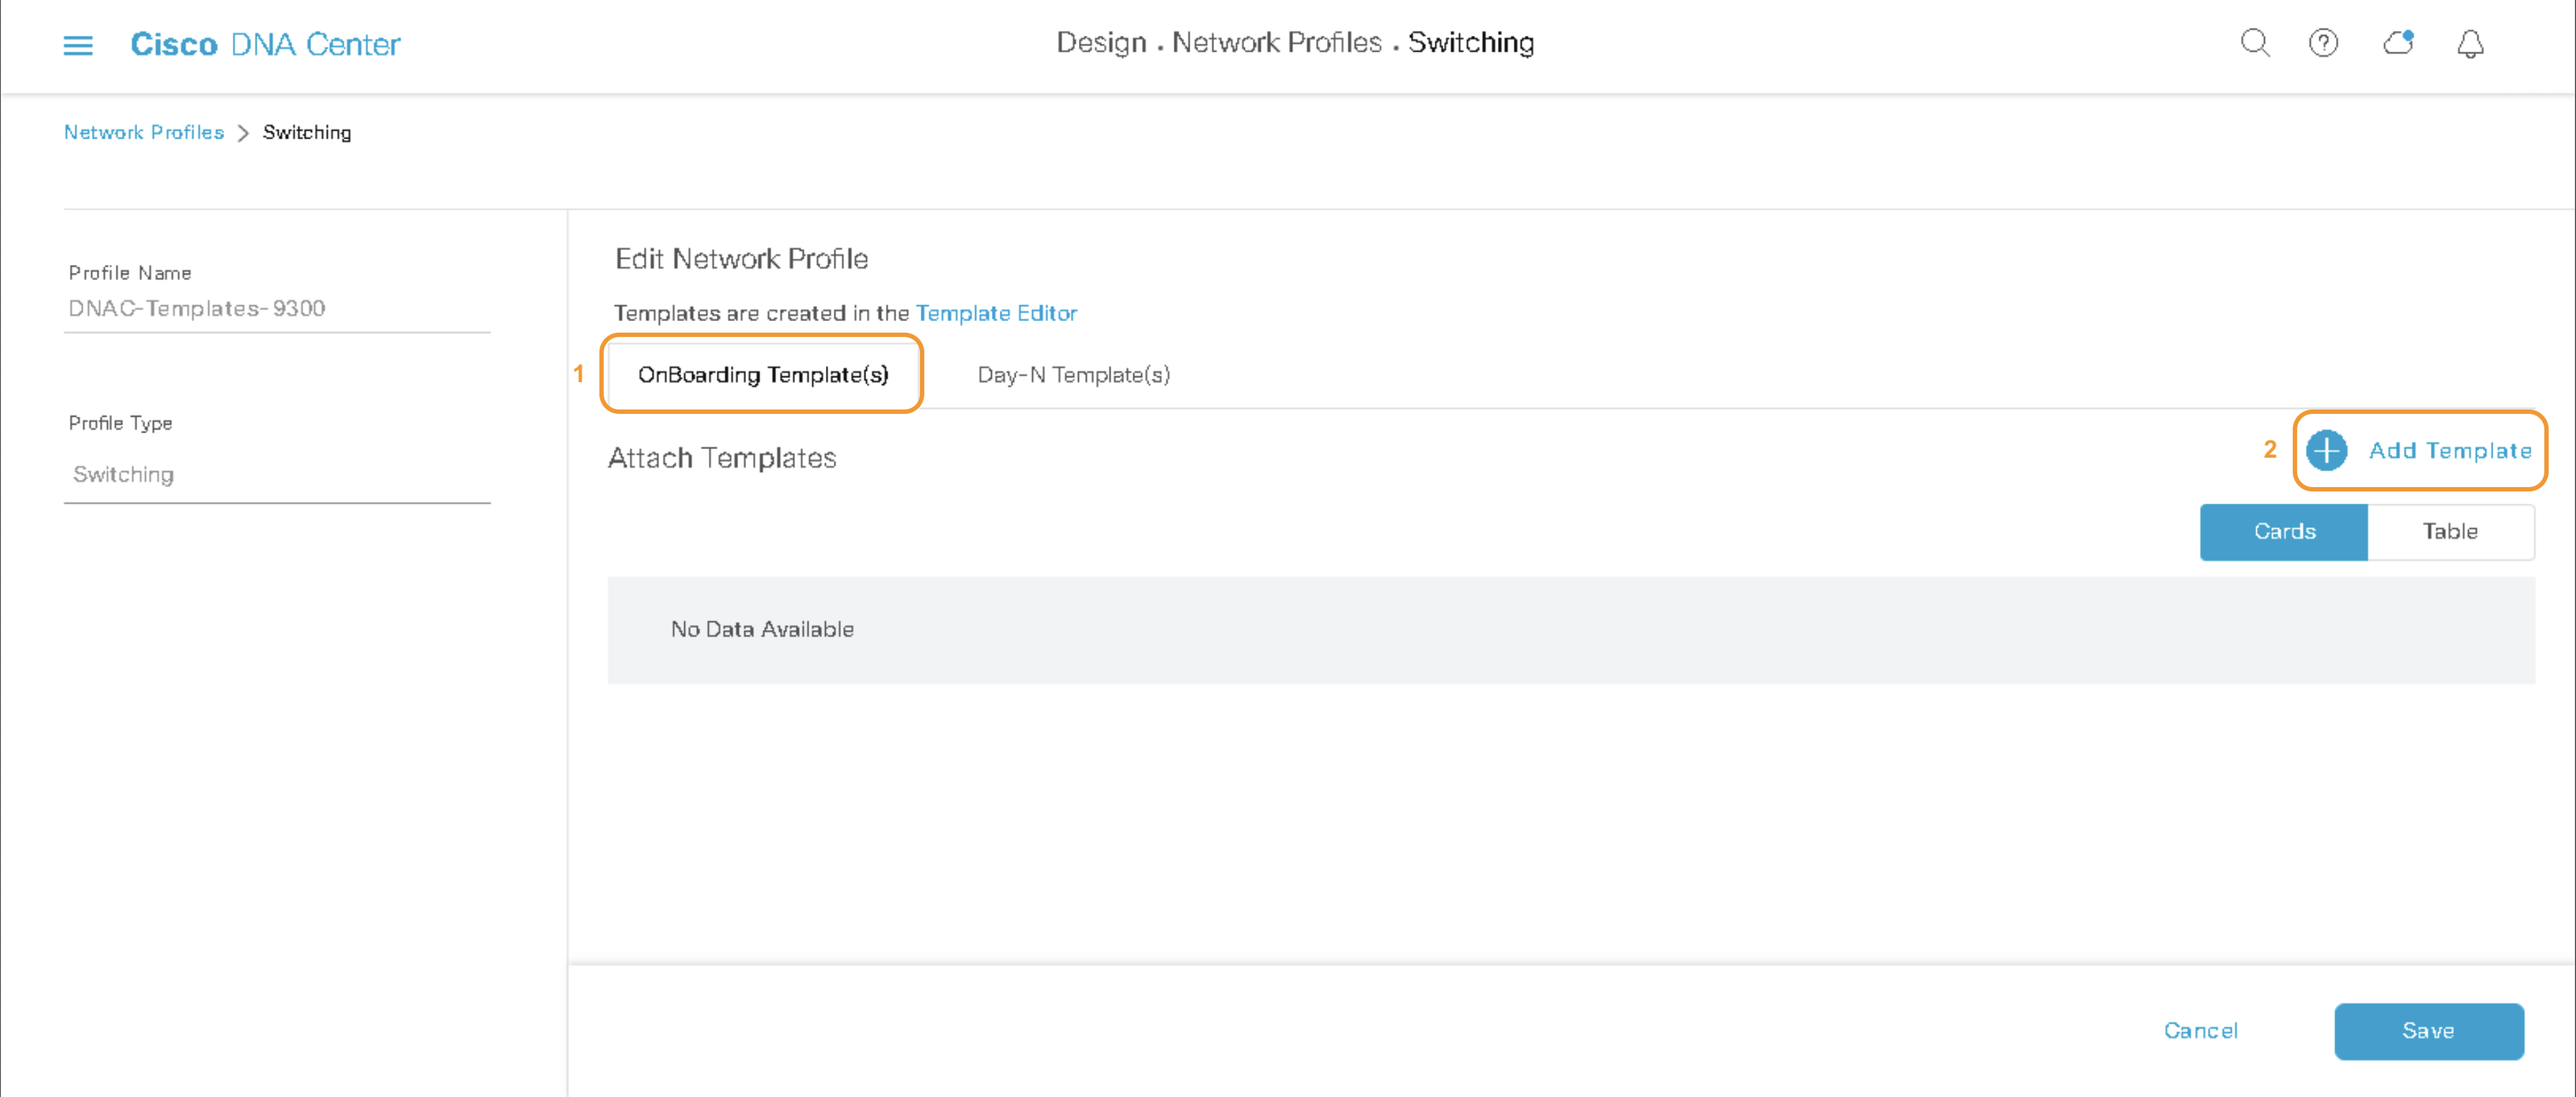
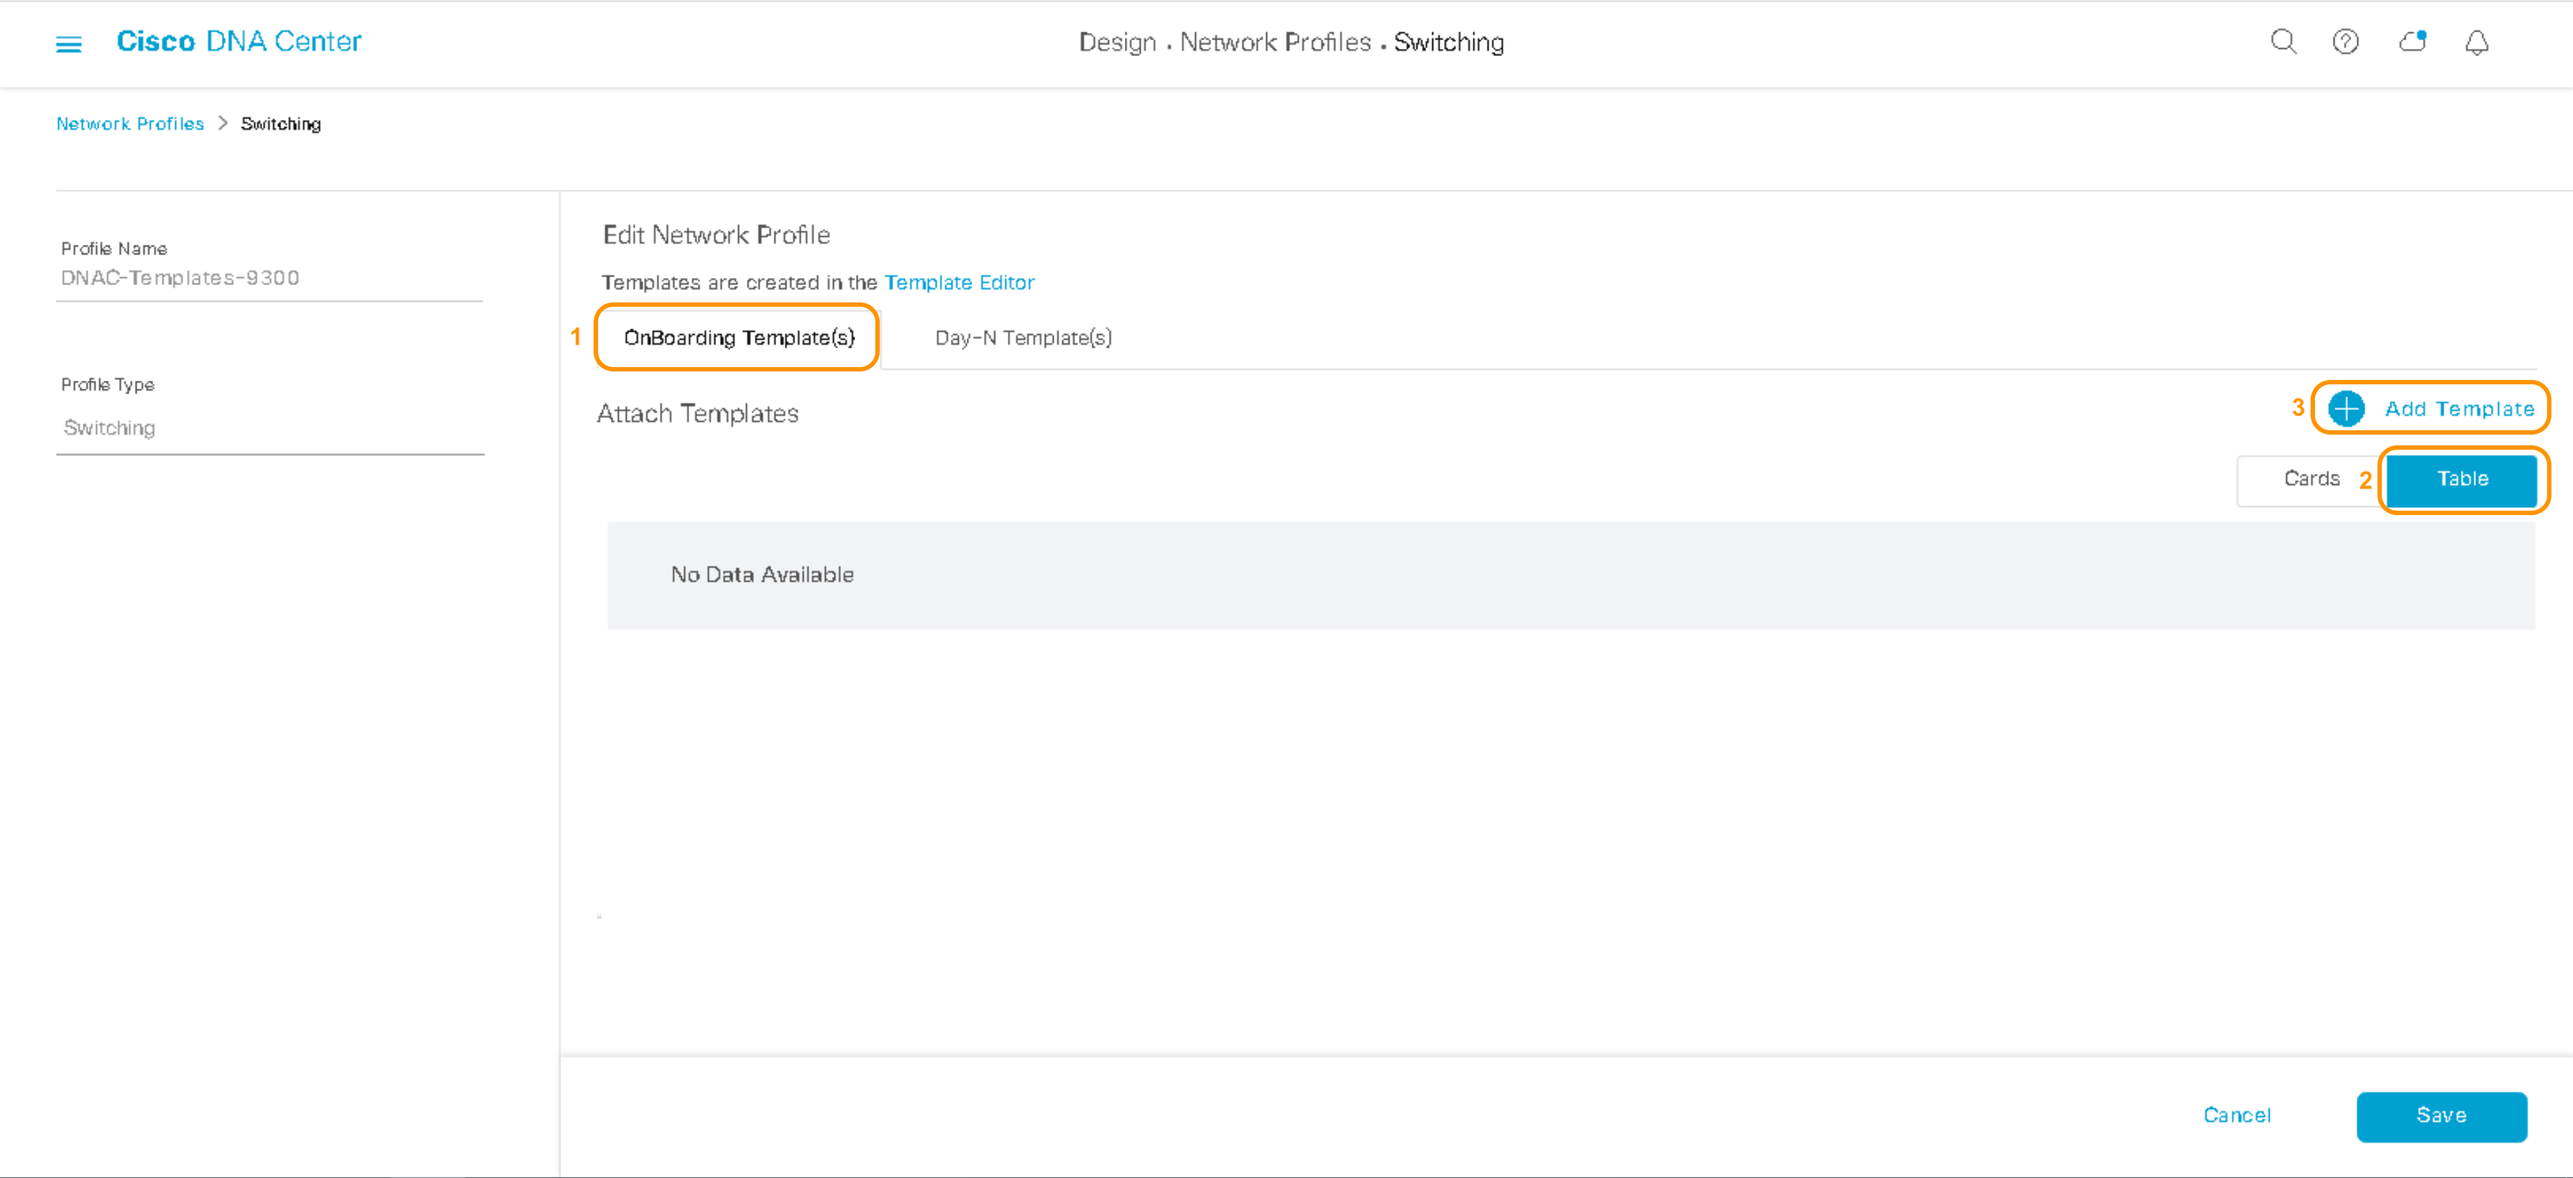
changes

diff --git a/LABS/LAB8-Dynamic-Automation/README.md b/LABS/LAB8-Dynamic-Automation/README.md
@@ -442,7 +442,8 @@ In this subsection we will begin preparation of this **Target** device by adding
 ##### Onboarding Template - Roughed Out
 1. Enter the following: 
       1. Select **Onboarding Template** tab to add the template for this workflow.
-      2. Click **Add Template** to proceed to the next step. 
+      2. Click the **Table View** 
+      3. Click **Add Template** to proceed to the next step. 
          ![json](./images/DNAC-Profile-Switching-Onboarding-Add.png?raw=true "Import JSON")
 2. Enter the following: 
       1. Change the **Device Type** to *9300 Switches* as shown
@@ -456,8 +457,8 @@ In this subsection we will begin preparation of this **Target** device by adding
 ##### DayN Template - Roughed Out
 1. Enter the following: 
       1. Select **DayN Template** tab to add the template for this workflow.
-      3. Click the **Table View** 
-      4. Click **Add Template** to proceed to the next step. 
+      2. Click the **Table View** 
+      3. Click **Add Template** to proceed to the next step. 
          ![json](./images/DNAC-NetworkProfile-Switching-DayN.png?raw=true "Import JSON")
 2. Enter the following: 
       1. Change the **Device Type** to *9300 Switches* as shown
